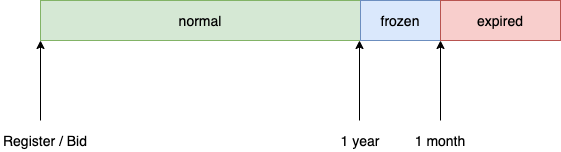
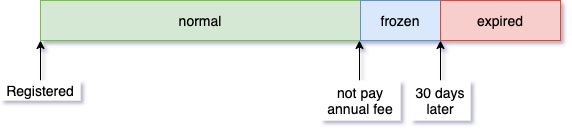
docs: update images in documents, add documents about Type ID

diff --git a/docs/en/Type-ID-and-Super-Lock.md b/docs/en/Type-ID-and-Super-Lock.md
@@ -1,0 +1,29 @@
+# Type ID and Super Lock
+
+
+## Type ID
+
+Type ID is a key concept of contract scripts on CKB blockchain, for more information on what Type ID is please see [RFC-0022](https://github.com/nervosnetwork/rfcs/blob/master/rfcs/0022-transaction-structure/0022-transaction-structure.md#type-id) .
+
+When you need to verify that if a cell uses the official DAS contract script, the only correct way is to check `type.code_hash` field of the cell is one of the following values and its `type.hash_type` field is `type`.
+
[7 lines of base64/hex data omitted]
+
+
+## Super Lock
+
+In fact, it is a multi-sign lock script of CKB system, the source code is detailed in [secp256k1-blake160-multisig-all.c](https://github.com/nervosnetwork/ckb-system-scripts/blob/master/c/secp256k1_blake160_multisig_all.c), but its Script structure is hard-coded into all contract scripts of DAS, only the signatures that can unlock this lock script can update the DAS source code and configure DAS, so we named it **Super Lock**.
+
+When you need to verify that a transaction is officially signed by DAS, the only correct way is to check if there is a cell in inputs with the following structure in its `lock` field.
+
+```
+Code Hash: 0x5c5069eb0857efc65e1bca0c07df34c31663b3622fd3876c876320fc9634e2a8
+     Args: 0xc126635ece567c71c50f7482c5db80603852c306
+Hash Type: type
+```

diff --git a/docs/zh-hans/Type-ID-以及-Super-Lock.md b/docs/zh-hans/Type-ID-以及-Super-Lock.md
@@ -1,0 +1,28 @@
+# Type ID 以及 Super Lock
+
+
+## Type ID
+
+Type ID 是 CKB 链上合约相关的一个关键概念，关于什么是 Type ID 请详见 [RFC-0022](https://github.com/nervosnetwork/rfcs/blob/master/rfcs/0022-transaction-structure/0022-transaction-structure.md#type-id) 。
+
+当需要验证一个 Cell 是否使用了 DAS 官方合约时，唯一正确的方式就是检查其 `type.code_hash` 是否为下列值且 `type.hash_type` 是否为 `type` 。
+
[6 lines of base64/hex data omitted]
+
+
+## Super Lock
+
+实际上这就是一个 CKB 系统的多签 lock script，源码详见 [secp256k1-blake160-multisig-all.c](https://github.com/nervosnetwork/ckb-system-scripts/blob/master/c/secp256k1_blake160_multisig_all.c) ，只是它的 Script 结构被硬编码到了 DAS 合约脚本中，只有能够解锁这个 lock script 的签名可以更新 DAS 源码，配置 DAS ，所以我们将其命名为 **Super Lock**。
+
+当需要验证一笔交易是否为 DAS 官方签发时，唯一正确的方式就是检查 inputs 中是否存在某个 Cell 的 `lock` 字段为下列结构。
+
+```
+Code Hash: 0x5c5069eb0857efc65e1bca0c07df34c31663b3622fd3876c876320fc9634e2a8
+     Args: 0xc126635ece567c71c50f7482c5db80603852c306
+Hash Type: type
+```

diff --git a/docs/zh-hans/系统概览.md b/docs/zh-hans/系统概览.md
@@ -50,7 +50,7 @@
 
 在操作账户时，千万要注意的一个因素是**账户的生命周期**：
 
-![账户生命周期](DAS-account-lifetime.png)
+![账户生命周期](DAS-account-lifecycle.png)
 
 对应上图中生命周期的每个状态分别是：
 
